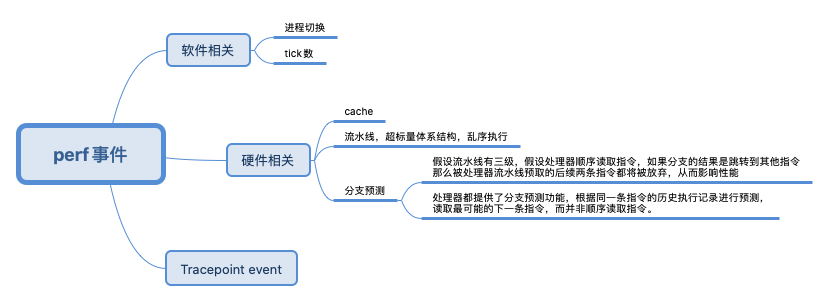
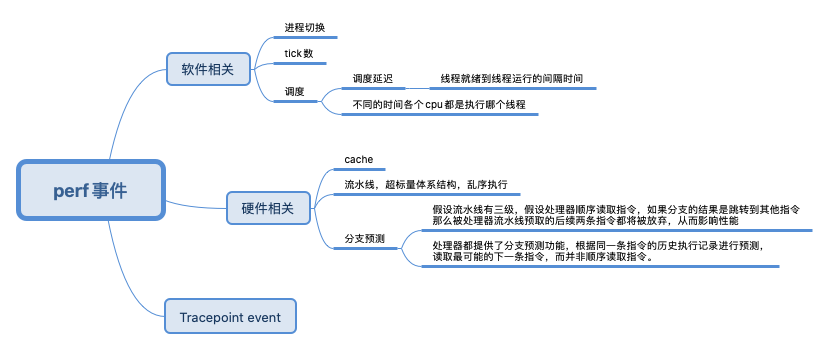
[fix]add doc

diff --git a/_posts/Technology/Java/2019-11-26-tomcat_practice_note.md b/_posts/Technology/Java/2019-11-26-tomcat_practice_note.md
@@ -13,6 +13,10 @@ keywords: tomcat
 * TOC
 {:toc}
 
+几个问题
+
+1. Request 和 Response 是如何读取和写回数据的
+
 ## tomcat是一个Servlet 容器？
 
 
@@ -29,12 +33,59 @@ keywords: tomcat
         List<Servlet> sers;
     }
 
-## Servlet规范与tomcat实现
+### Servlet规范与tomcat实现
 
 ![](/public/upload/java/servlet_tomcat_object.png)
 
 ![](/public/upload/java/tomcat_request.png)
 
+在tomcat server.xml 中体现的也非常直观
+
+    <Server port="8005" shutdown="SHUTDOWN">
+        <Listener className="org.apache.catalina.core.ThreadLocalLeakPreventionListener" />
+        <Service name="Catalina">
+            <Connector port="8080" protocol="HTTP/1.1"
+                connectionTimeout="20000"
+                redirectPort="8443" />
+            <Connector port="8009" protocol="AJP/1.3" redirectPort="8443" />
+        </Service>
+        <Engine name="Catalina" defaultHost="localhost">
+            <Realm className="org.apache.catalina.realm.UserDatabaseRealm"
+                resourceName="UserDatabase"/>
+            <!--可以另外创建一个host，使用不同的appBase-->
+            <Host name="localhost"  appBase="webapps"
+                unpackWARs="true" autoDeploy="true">
+                <!--可以配置 Context>
+            </Host>
+        </Engine>
+    </Server>
+
+## 从各个视角看tomct
+
+
+![](/public/upload/java/tomcat_war.png)
+
+tomcat 的功能简单说 就是让 一堆class文件+web.xml  可以对外支持http
+
+![](/public/upload/java/tomcat_sample.png)
+
+![](/public/upload/java/tomcat_overview.png)
+
+### connector 架构
+
+![](public/upload/java/tomcat_connector.png)
+
 ## 启动入口
 
 `/usr/java/jdk1.8.0_191/bin/java -Dxx  -Xxx org.apache.catalina.startup.Bootstrap start`
+
+![](/public/upload/java/tomcat_start.png)
+
+webapps 下没有war包 也可以启动。有了war 包，通过事件 触发war 包的解压和加载
+
+## 其它
+
+### tomcat 为什么运行war 而不是jar
+
+如果一个项目打成jar包，那么tomcat 在启动时 就要去分析下 这个jar 是一个web项目还是一个 普通二方库。 
+

diff --git a/_posts/Technology/Docker/2019-11-25-container_debug.md b/_posts/Technology/Docker/2019-11-25-container_debug.md
@@ -45,10 +45,7 @@ The userspace perf command present a simple to use interface with commands like:
 
 当算法已经优化，代码不断精简，人们调到最后，便需要斤斤计较了。cache 啊，流水线啊一类平时不大注意的东西也必须精打细算了。
 
-[Perf -- Linux下的系统性能调优工具，第 2 部分](https://www.ibm.com/developerworks/cn/linux/l-cn-perf2/index.html)未读
-
-
-[干货携程容器偶发性超时问题案例分析（一）](https://mp.weixin.qq.com/s/bSNWPnFZ3g_gciOv_qNhIQ)[干货携程容器偶发性超时问题案例分析（二）](https://mp.weixin.qq.com/s/7ZZqWPE1XNf9Mn_wj1HjUw) 这两篇文章中，使用perf 排查问题是如何体现的？
+[干货携程容器偶发性超时问题案例分析（一）](https://mp.weixin.qq.com/s/bSNWPnFZ3g_gciOv_qNhIQ)[干货携程容器偶发性超时问题案例分析（二）](https://mp.weixin.qq.com/s/7ZZqWPE1XNf9Mn_wj1HjUw) 这两篇文章中，使用perf sched 发现了物理上存在的调度延迟问题。
 
 ### perf stat
 
@@ -83,3 +80,9 @@ perf stat 给出了其他几个最常用的统计信息：
 9. Cache-misses: cache 失效的次数。
 
 通过指定 -e 选项，可以改变 perf stat 的缺省事件 ( 可以通过 perf list 来查看 )。假如你已经有很多的调优经验，可能会使用 -e 选项来查看您所感兴趣的特殊的事件。
+
+### perf sched
+
+[Perf -- Linux下的系统性能调优工具，第 2 部分](https://www.ibm.com/developerworks/cn/linux/l-cn-perf2/index.html)未读
+
+perf sched 使用了转储后再分析 (dump-and-post-process) 的方式来分析内核调度器的各种事件

diff --git a/_posts/Technology/Architecture/2019-08-31-serverless_intro.md b/_posts/Technology/Architecture/2019-08-31-serverless_intro.md
@@ -41,3 +41,9 @@ keywords: window
     2. 其生态发展非常迅速和健康。很有可能未来所有云厂商都要去兼容 Knative 的标准，就像今天所有云厂商都在兼容 Kubernetes 一样。
 
 3. 框架和运行时层呢，由于个人经验所限，我看的仅仅是 Java 领域，其实核心的还是在解决 Java 应用程序启动慢的问题（GraalVM）。当然框架如何避免 vendor lock-in 也很重要，谁都怕被一家云厂商绑定，怕换个云厂商要改代码，这方面主要是 Spring Cloud Function 在做。
+
+
+
+[当我们在聊 Serverless 时你应该知道这些](https://mp.weixin.qq.com/s/Krfhpi7G93el4avhv9UN4g)
+
+![](/public/upload/architecture/ali_cloud_function.png)

diff --git a/_posts/Technology/Network/2016-05-23-network_command.md b/_posts/Technology/Network/2016-05-23-network_command.md
@@ -17,12 +17,16 @@ http://fishcried.com/ 有一个linux 网络的基础知识系列，要研读下
 
 ## tcpdump
 
+[tcpdump抓包使用小结](https://segmentfault.com/a/1190000017346947)
+
     ## 监听某个网卡的数据包
     tcpdump -i eth0
     ## 监听某个端口的数据包，默认是第一个网卡     
     tcpdump port 1024
     ## 监控本机 eth0 网卡与目标主机的往来数据包
     tcpdump -i eth0 -nn 'host 目标主机ip'
+
+Wireshark 还可以用来读取 tcpdump 保存的 pcap 文件。你可以使用 tcpdump 命令行在没有 GUI 界面的远程机器上抓包然后在 Wireshark 中分析数据包。
 
 ## ip命令
 
